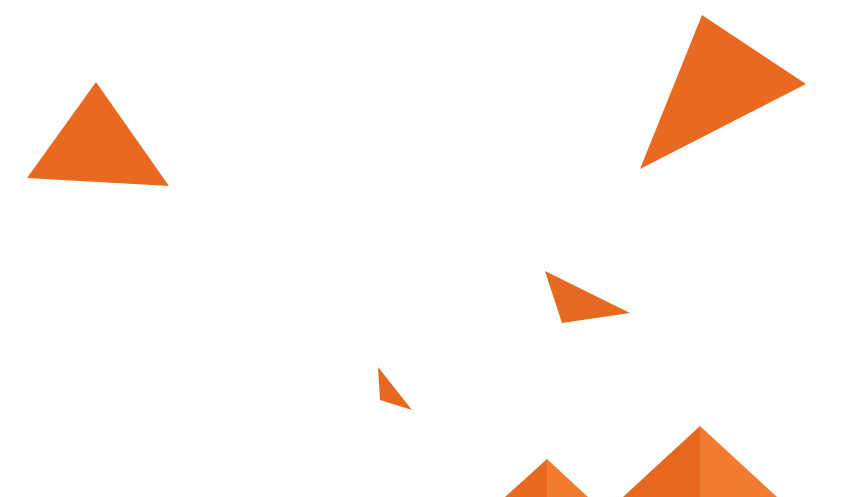
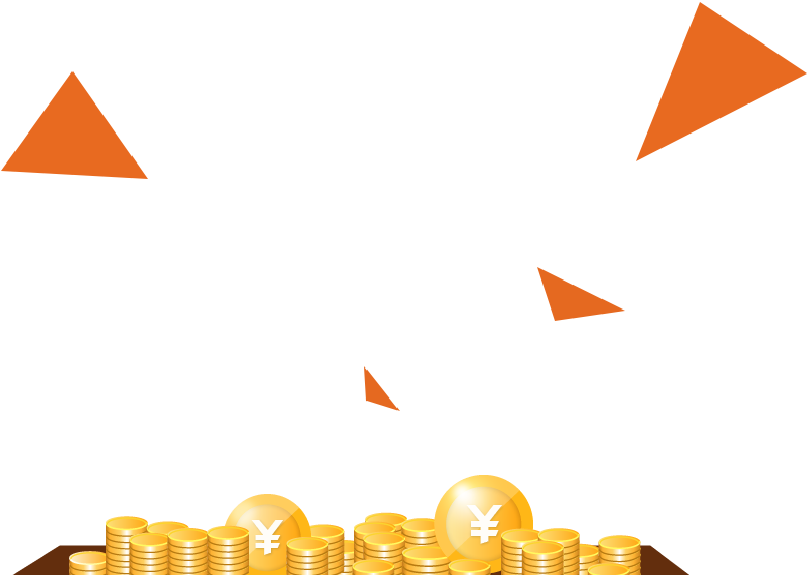
redesign homepage

diff --git a/web/css/index.css b/web/css/index.css
@@ -289,7 +289,7 @@ body {
 .login-wrapper {
   position: absolute;
   z-index: 1000;
-  right: -70px;
+  right: -4px;
   top: 50px;
   background: url(../img/home/loginBg.png) no-repeat center bottom;
   padding: 0 70px 5px; }
@@ -473,16 +473,20 @@ body {
   margin-top: 80px; }
 
 .main-ad {
-  height: 470px;
-  background: #eb7020 url(../img/home/adBg.png) no-repeat 300px bottom; }
+  height: 549px;
+  background: url(../img/home/adBgx.gif) repeat-x; }
 
 .main-ad-con {
   position: relative;
-  z-index: 1; }
+  z-index: 1;
+  background: url(../img/home/adBg.png) no-repeat -7px -38px;
+  height: 535px;
+  width: 1130px; }
 
 .main-ad-con-text {
   color: #fff;
-  padding-top: 135px; }
+  padding-top: 115px;
+  padding-left: 70px; }
   .main-ad-con-text p {
     margin-top: 20px;
     line-height: 32px;
@@ -524,40 +528,37 @@ body {
       *display: inline;
       *zoom: 1; }
 
-.main-con {
-  padding: 45px 0; }
-  .main-con h2 {
-    margin-bottom: 45px; }
+.main-con h2 {
+  margin-bottom: 45px; }
 
-.main-con-rewardprocess {
-  background: #fff; }
+.main-con-process {
+  background: #fffaa9;
+  padding: 50px 0; }
+  .main-con-process img {
+    text-align: center;
+    margin: 0 auto;
+    display: block; }
+  .main-con-process .sLog {
+    padding-top: 20px;
+    display: block; }
+
+.main-con-reward {
+  background: #c5e6f7;
+  padding-bottom: 75px; }
+  .main-con-reward img {
+    text-align: center;
+    margin: 0 auto;
+    display: block; }
 
 .main-con-detail {
-  text-align: center; }
-  .main-con-detail .text {
-    margin-top: 20px; }
-  .main-con-detail li {
-    float: left;
-    width: 27%; }
-    .main-con-detail li.step2 {
-      width: 46%; }
-    .main-con-detail li .title {
-      width: 170px;
-      margin: 0 auto;
-      line-height: 45px;
-      color: #fc701e;
-      font-size: 22px;
-      font-weight: bold; }
-    .main-con-detail li p {
-      width: 170px;
-      margin: 0 auto;
-      color: #828282;
-      line-height: 24px; }
+  background: #ecf7d5;
+  padding-bottom: 90px; }
   .main-con-detail .party {
     background: url(../img/home/wallCon.png) no-repeat;
-    height: 415px;
-    width: 928px;
-    position: relative; }
+    height: 521px;
+    width: 1003px;
+    position: relative;
+    margin: 0 auto; }
     .main-con-detail .party .party-item {
       background: url(../img/home/wallPortrait.png) no-repeat;
       display: block;
@@ -574,7 +575,7 @@ body {
       width: 34px; }
     .main-con-detail .party .party02 {
       background-position: -41px 0;
-      height: 78px;
+      height: 79px;
       width: 78px; }
     .main-con-detail .party .party03 {
       background-position: -121px -9px;
@@ -582,12 +583,12 @@ body {
       width: 57px; }
     .main-con-detail .party .party04 {
       background-position: 0 -84px;
-      height: 57px;
-      width: 57px; }
+      height: 59px;
+      width: 59px; }
     .main-con-detail .party .party05 {
       background-position: -59px -84px;
-      height: 58px;
-      width: 57px; }
+      height: 59px;
+      width: 59px; }
     .main-con-detail .party .party06 {
       background-position: -122px -96px;
       height: 27px;
@@ -596,33 +597,33 @@ body {
     opacity: 1; }
   .main-con-detail .animateing .party01 {
     left: 143px;
-    top: 135px; }
+    top: 275px; }
   .main-con-detail .animateing .party02 {
-    left: 290px;
-    top: 124px; }
+    left: 309px;
+    top: 264px; }
   .main-con-detail .animateing .party03 {
-    left: 530px;
-    top: -10px; }
+    left: 612px;
+    top: 170px; }
   .main-con-detail .animateing .party04 {
-    left: 363px;
-    top: 363px; }
+    left: 303px;
+    top: 473px; }
   .main-con-detail .animateing .party05 {
-    left: 505px;
-    top: 246px; }
+    left: 582px;
+    top: 355px; }
   .main-con-detail .animateing .party06 {
     left: 714px;
-    top: 144px; }
+    top: 284px; }
 
 .main-con-action {
   text-align: center;
   background: #fff;
-  height: 200px; }
+  height: 200px;
+  padding: 25px 0 0; }
   .main-con-action h1 {
     font-size: 24px;
     font-weight: bold;
     color: #323232;
-    line-height: 46px;
-    margin-top: 15px; }
+    line-height: 46px; }
   .main-con-action p {
     color: #929293;
     font-size: 16px;

diff --git a/web/sass/index.scss b/web/sass/index.scss
@@ -12,16 +12,20 @@ $main-ad-color: #eb7020;
 	margin-top: 80px;
 }
 .main-ad{
-	height: 470px;
-	background: $main-ad-color url(../img/home/adBg.png) no-repeat 300px bottom;
+	height: 549px;
+	background: url(../img/home/adBgx.gif) repeat-x;
 }
 .main-ad-con{
 	position: relative;
 	z-index: 1;
+	background: url(../img/home/adBg.png) no-repeat -7px -38px;
+    height: 535px;
+    width: 1130px;
 }
 .main-ad-con-text{
 	color: #fff;
-	padding-top: 135px;
+	padding-top: 115px;
+	padding-left: 70px;
 	p{
 		margin-top: 20px;
 		line-height: 32px;
@@ -66,45 +70,41 @@ $main-ad-color: #eb7020;
 	}
 }
 .main-con{
-	padding: 45px 0;
 	h2{
 		margin-bottom: 45px;
 	}
 }
-.main-con-rewardprocess{
-	background: #fff;
+.main-con-process{
+	background: #fffaa9;
+	padding: 50px 0;
+	& img{
+		text-align: center;
+		margin: 0 auto;
+		display: block;
+	}
+	.sLog{
+		padding-top: 20px;
+		display: block;
+	}
+}
+.main-con-reward{
+	background: #c5e6f7;
+	padding-bottom: 75px;
+	& img{
+		text-align: center;
+		margin: 0 auto;
+		display: block;
+	}
 }
 .main-con-detail{
-	text-align: center;
-	.text{
-		margin-top: 20px;
-	}
-	li{
-		float: left;
-		width: 27%;
-		&.step2{
-			width: 46%;
-		}
-		.title{
-			width: 170px;
-			margin: 0 auto;
-			line-height: 45px;
-			color: #fc701e;
-			font-size: 22px;
-			font-weight: bold;
-		}
-		p{
-			width: 170px;
-			margin: 0 auto;
-			color: #828282;
-			line-height: 24px;
-		}
-	}
+	background: #ecf7d5;
+	padding-bottom: 90px;
 	.party{
 		    background: url(../img/home/wallCon.png) no-repeat;
-  			height: 415px;
-			width: 928px;
+  			height: 521px;
+  			width: 1003px;
 			position: relative;
+			margin: 0 auto;
 			.party-item {
 				background: url(../img/home/wallPortrait.png) no-repeat;
 				display: block;
@@ -123,7 +123,7 @@ $main-ad-color: #eb7020;
 			}
 			.party02{
 				background-position: -41px 0;
-				height: 78px;
+				height: 79px;
 				width: 78px;
 			}
 			.party03{
@@ -133,13 +133,13 @@ $main-ad-color: #eb7020;
 			}
 			.party04{
 				background-position: 0 -84px;
-				height: 57px;
-				width: 57px;
+				height: 59px;
+				width: 59px;
 			}
 			.party05{
 				background-position: -59px -84px;
-				height: 58px;
-				width: 57px;
+				height: 59px;
+				width: 59px;
 			}
 			.party06{
 				background-position: -122px -96px;
@@ -153,27 +153,27 @@ $main-ad-color: #eb7020;
 		}
 		.party01{
 			left: 143px;
-			top: 135px;
+			top: 275px;
 		}
 		.party02{
-			left: 290px;
-			top: 124px;
+			left: 309px;
+			top: 264px;
 		}
 		.party03{
-			left: 530px;
-			top: -10px;
+			left: 612px;
+			top: 170px;
 		}
 		.party04{
-			left: 363px;
-			top: 363px;
+			left: 303px;
+			top: 473px;
 		}
 		.party05{
-			left: 505px;
-			top: 246px;
+			left: 582px;
+			top: 355px;
 		}
 		.party06{
 			left: 714px;
-			top: 144px;
+			top: 284px;
 		}
 	}
 }
@@ -181,12 +181,12 @@ $main-ad-color: #eb7020;
 	text-align: center;
 	background: #fff;
 	height: 200px;
+	padding: 25px 0 0;
 	h1{
 	    font-size: 24px;
 	    font-weight: bold;
 	    color: #323232;
 	    line-height: 46px;
-	    margin-top: 15px;
 	}
 	p{
 		color: #929293;

diff --git a/web/css/component/login.css b/web/css/component/login.css
@@ -1,7 +1,7 @@
 .login-wrapper {
   position: absolute;
   z-index: 1000;
-  right: -70px;
+  right: -4px;
   top: 50px;
   background: url(../img/home/loginBg.png) no-repeat center bottom;
   padding: 0 70px 5px; }

diff --git a/web/sass/component/login.scss b/web/sass/component/login.scss
@@ -4,7 +4,7 @@
 .login-wrapper{
 	position: absolute;
 	z-index: 1000;
-	right: -70px;
+	right: -4px;
 	top: 50px;
 	background: url(../img/home/loginBg.png) no-repeat center bottom;
 	padding: 0 70px 5px;
